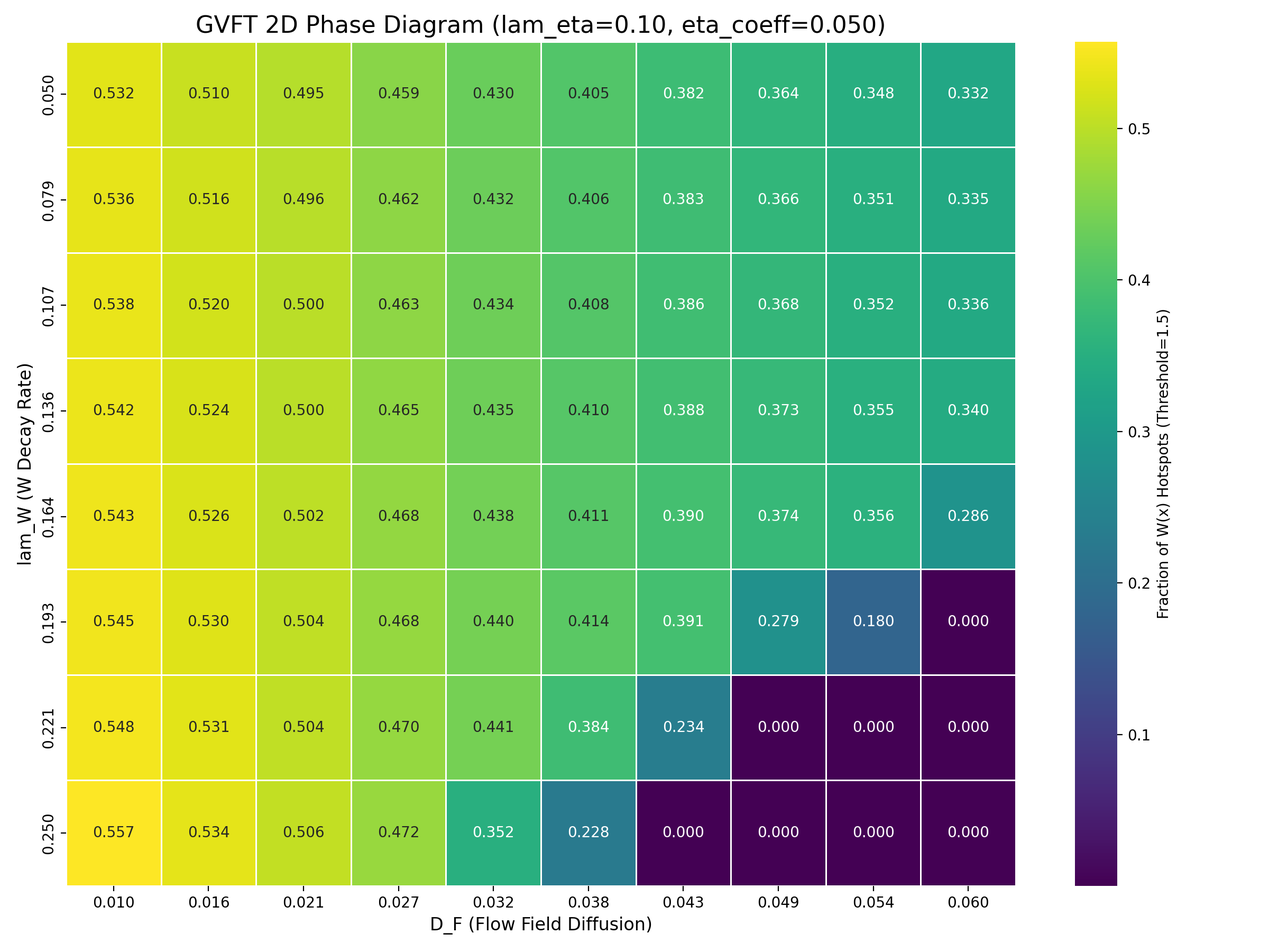
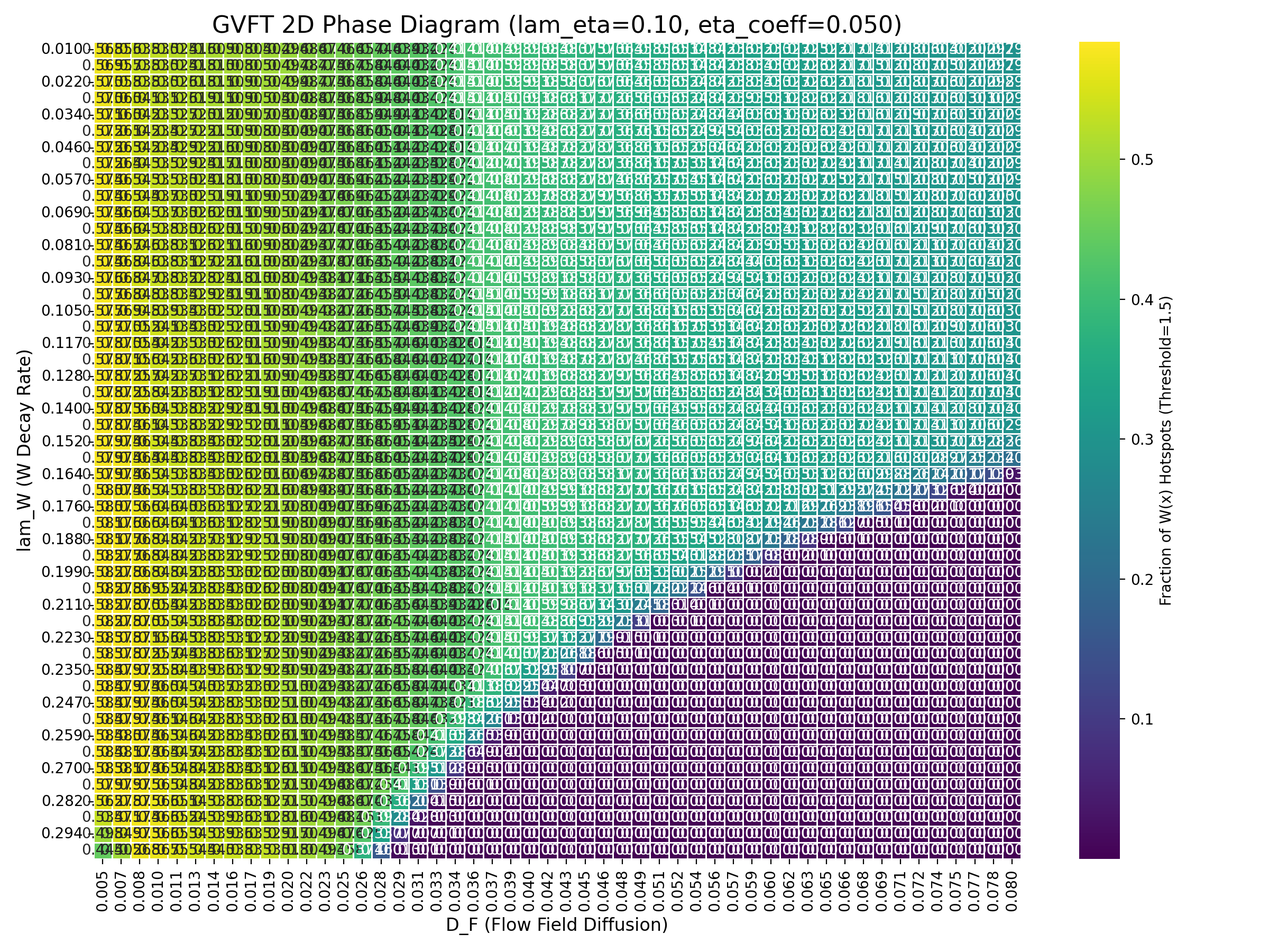
add large phase diagram and experiment runs

diff --git a/gvft_param_sweep_sim.py b/gvft_param_sweep_sim.py
@@ -13,7 +13,7 @@ os.makedirs("figures", exist_ok=True)
 
 # --- PARAMETERS ---
 grid_size = 100
-timesteps_sweep = 500
+timesteps_sweep = 200
 timesteps_sim = 500
 view_step = 50
 num_modules = 10
@@ -36,8 +36,8 @@ noise_F = 0.0001
 noise_W = 0.001
 
 # --- Define Parameter Sweep Ranges ---
-D_F_values = np.linspace(0.01, 0.06, 10)
-lam_W_values = np.linspace(0.05, 0.25, 8)
+D_F_values = np.linspace(0.005, 0.08, 50)
+lam_W_values = np.linspace(0.01, 0.30, 50)
 
 # --- DOMAIN SETUP ---
 np.random.seed(42)
